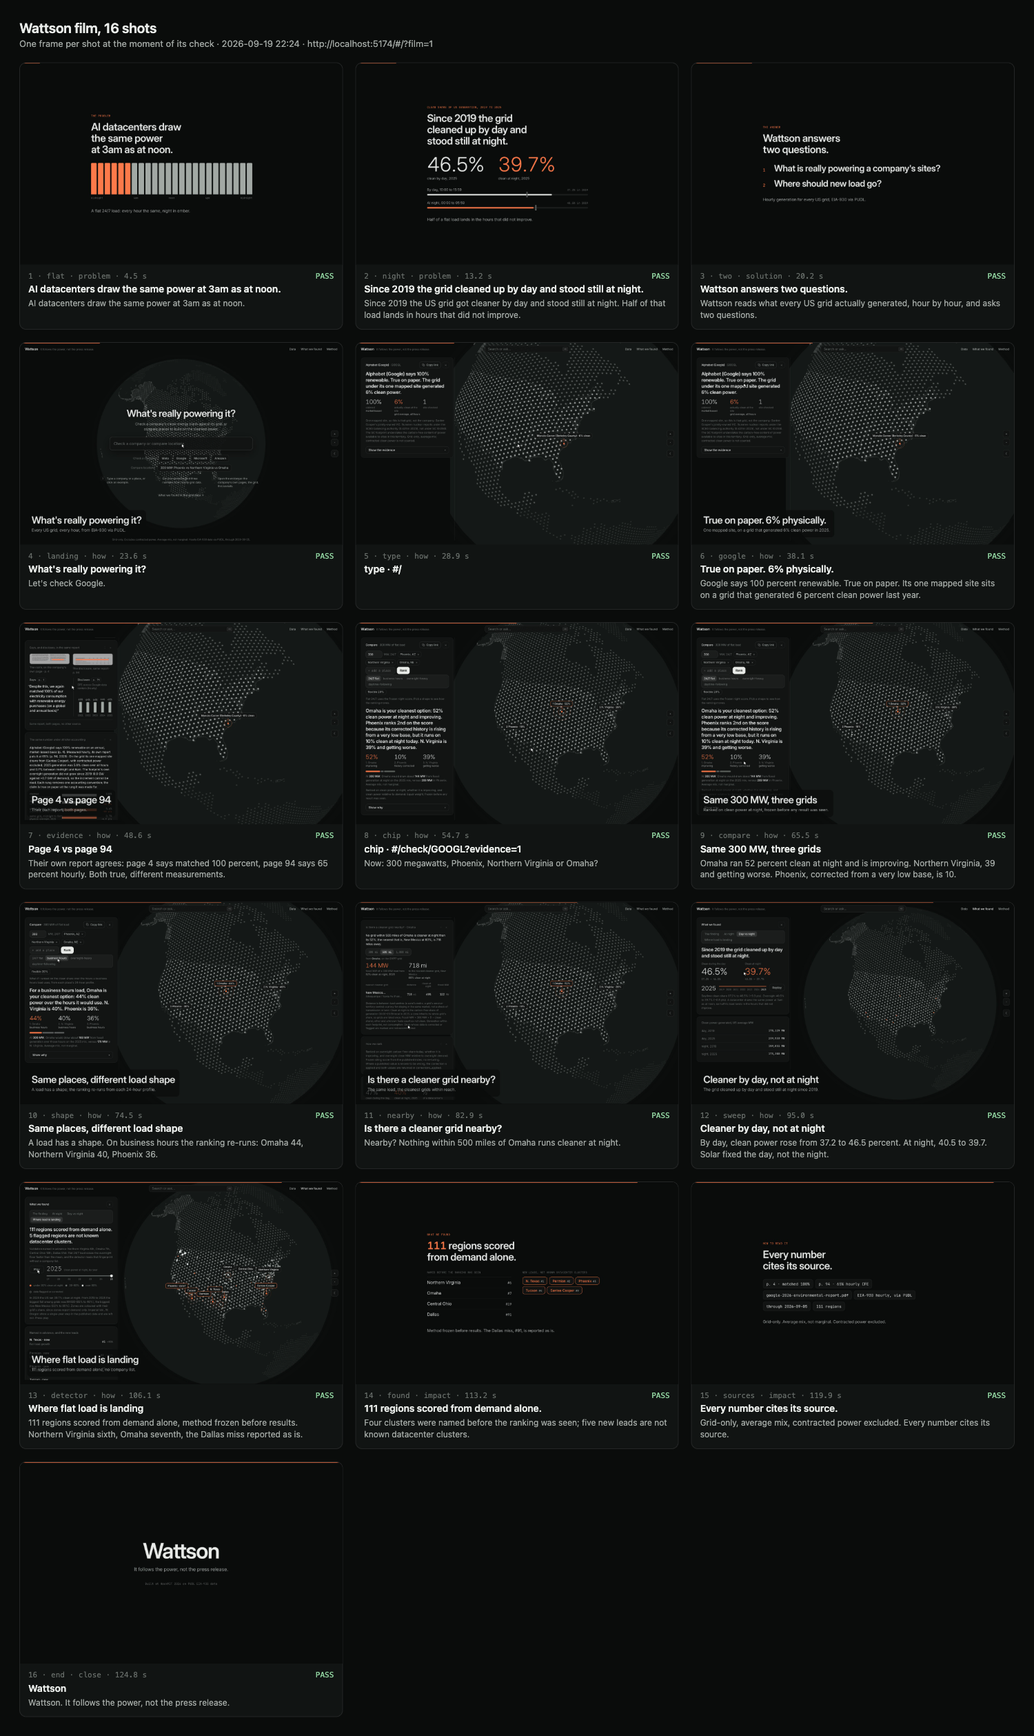
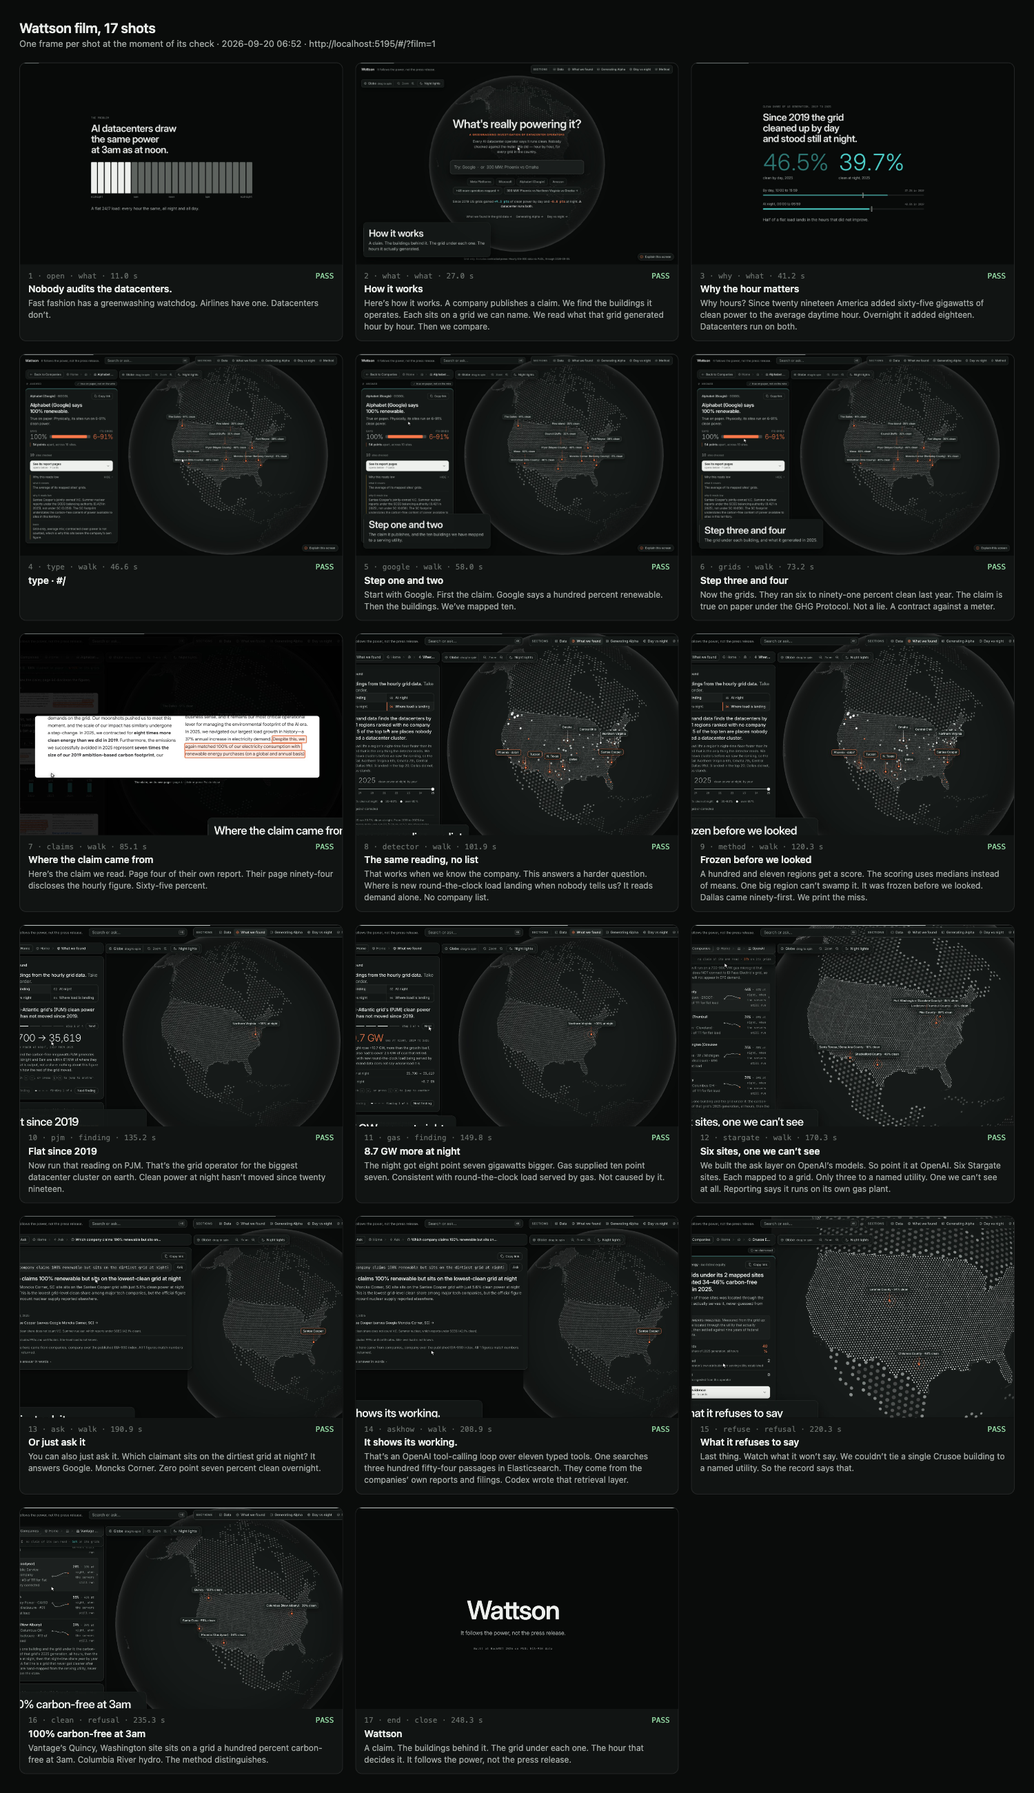
film: step the scroll ourselves so a backgrounded recorder cannot stall it
Smooth scrolling is throttled to a standstill in a hidden window, the same as
requestAnimationFrame, so every scrolling shot silently did nothing when the
recorder was not in front and its check then failed for a reason unrelated to
the shot. Measured directly: an instant scroll moved the target from 941 to
80, the identical smooth scroll left it at 0 indefinitely. The scroll now
steps on a timer with an easing curve, which looks the same on camera and
cannot stall. Two shots that had never passed in a full run now do.

diff --git a/web/src/demo/film.js b/web/src/demo/film.js
@@ -117,7 +117,7 @@ export const FILM = [
 
   { id: 'grids', section: 'walk', route: '#/check/GOOGL', holdMs: 8000, title: 'Step three and four',
     sub: 'The grid under each building, and what it generated in 2025.',
-    say: 'Now the grids. They ran six to ninety-one percent clean last year. The claim is true on paper under the GHG Protocol. Not a lie. A contract against a meter.',
+    say: 'Now the grids. They ran six to ninety-one percent clean last year. That averages forty-six. So the claim is true on paper under the GHG Protocol. Not a lie. A contract against a meter.',
     waitFor: '.ans-gap', actions: [{ type: 'wait', ms: 300 }, { type: 'move', selector: '.ans-gap' }],
     expect: { selector: '.ans-gap', text: ['100%', '6–91%', '54 points apart, across 10 sites.'] } },
 
@@ -186,6 +186,17 @@ export const FILM = [
       { type: 'scroll', selector: '[data-module="sites"] .site-note .note' },
     ],
     expect: { selector: '[data-module="sites"] .site-note .note', text: ['700-900 MW gas microgrid', 'does NOT connect'] } },
+
+  // The specific case generalises into the limitation. "Ten" is the count of site notes that say
+  // "behind the meter" across company/*.json, verified by hand: ten say it, fifteen describe on-site
+  // generation of any kind. Not eleven — that figure is not reproducible from anything in the repo.
+  { id: 'blind', section: 'walk', route: '#/check/OPENAI?evidence=1', holdMs: 6000,
+    title: 'Our own blind spot', sub: 'Ten mapped sites make their own power, so federal demand data never sees them.',
+    say: 'Ten of our mapped sites are behind the meter. A demand-only detector can’t see them.',
+    waitFor: '[data-module="sites"] .site-note .note', actions: [
+      { type: 'move', selector: '[data-module="sites"] .site-note .note' },
+    ],
+    expect: { selector: '[data-module="sites"] .site-note .note', text: 'will not appear in EPE demand' } },
 
   { id: 'ask', section: 'walk', route: ASK_ROUTE, holdMs: 9000, title: 'Or just ask it',
     sub: 'Typed in plain English, answered off the published index.',

diff --git a/web/src/pages/Film.jsx b/web/src/pages/Film.jsx
@@ -144,7 +144,18 @@ async function act(a) {
   if (a.type === 'move') { await moveTo(el); return }
   if (a.type === 'scroll') {
     const sp = scrollParent(el)
-    if (sp) { const top = el.getBoundingClientRect().top - sp.getBoundingClientRect().top + sp.scrollTop - 12; sp.scrollTo({ top: Math.max(0, top), behavior: 'smooth' }) } else el.scrollIntoView({ behavior: 'smooth', block: 'start' })
+    // Smooth scrolling is throttled to a standstill in a hidden or backgrounded window, exactly like
+    // requestAnimationFrame, so every scrolling shot silently no-ops when the recorder is not in
+    // front and the expect check then fails for a reason that has nothing to do with the shot.
+    // Step the scroll ourselves on a timer instead: it looks the same on camera and cannot stall.
+    const ease = t => (t < 0.5 ? 2 * t * t : 1 - Math.pow(-2 * t + 2, 2) / 2)
+    const glide = (set, from, to, ms = 420) => new Promise(done => {
+      const t0 = Date.now()
+      const step = () => { const k = Math.min(1, (Date.now() - t0) / ms); set(from + (to - from) * ease(k)); if (k < 1) setTimeout(step, 16); else done() }
+      step()
+    })
+    if (sp) { const top = el.getBoundingClientRect().top - sp.getBoundingClientRect().top + sp.scrollTop - 12; await glide(v => { sp.scrollTop = v }, sp.scrollTop, Math.max(0, top)) }
+    else { const top = Math.max(0, el.getBoundingClientRect().top + window.scrollY - 12); await glide(v => window.scrollTo(0, v), window.scrollY, top) }
     await sleep(750)
     at = null   // the page moved under the cursor; the next move is a fade-in, not a drift
     await moveTo(el, 500)

diff --git a/docs/narration-annex.md b/docs/narration-annex.md
@@ -40,10 +40,10 @@ that pause — where a clause needed one, it became two sentences.
 
 ## Timing
 
-- **Narration: 418 words over 17 shots = 191.9 s**, at `words / 2.3 + 0.6 s` per shot.
+- **Narration: 437 words over 18 shots = 200.8 s**, at `words / 2.3 + 0.6 s` per shot.
 - Interaction adds about **36 s** — ~12 s on the live model call in `ask`, ~4 s of typing in `type`,
   2.6 s of title card, and 0.6–1.5 s per shot of veil, caption-out and gap, all outside the hold.
-- **Realistic running time: about 3:47.**
+- **Realistic running time: about 3:56.**
 - This is over the 150 s narration target by design. The coordinator took the length in exchange for
   keeping the clean result (`clean`) and the Stargate utility split, on the grounds that a shorter
   film that implies a company lied by omission is worse in every way. Do not cut the explanation
@@ -69,9 +69,10 @@ that pause — where a clause needed one, it became two sentences.
     `column.scrollTop = 861` moves the evidence module from top 941 to top 80, while the identical
     smooth `scrollTo` leaves it at 0/941 indefinitely. Every shot that scrolls (`claims`,
     `stargate`, `clean`) therefore fails in a hidden tab and passes in a visible one.
-  - **Worth handing to whoever owns `web/src/pages/Film.jsx`:** dropping `behavior: 'smooth'` from
-    the `scroll` action (or using `'auto'`) would make the film robust to an offscreen recorder.
-    That file is not ours, so the change was not made here.
+  - **Fixed upstream.** Film.jsx's `scroll` action no longer uses smooth behaviour; it steps the
+    scroll on a timer with its own easing, so it looks the same on camera and cannot stall in a
+    backgrounded window. The defensive waits and second scroll pass in the shot list are kept as
+    belt and braces; they cost nothing, since action time is absorbed by the narration.
 - **Build the app, then regenerate the narration, in that order.** Building first and narrating
   second leaves the recorded app pacing to the previous voice's clip lengths.
 
@@ -138,11 +139,16 @@ reaches in shot 6. At this moment the number is on screen but not under the curs
 
 ### 6 · `grids` — `#/check/GOOGL` — 30 words · 13.6 s
 **Screen.** The gap block: says 100% / its grids 6–91% / 54 points apart, across 10 sites.
-> Now the grids. They ran six to ninety-one percent clean last year. The claim is true on paper
-> under the GHG Protocol. Not a lie. A contract against a meter.
+> Now the grids. They ran six to ninety-one percent clean last year. That averages forty-six. So
+> the claim is true on paper under the GHG Protocol. Not a lie. A contract against a meter.
 
-*Figures:* `company/GOOGL.json` → `claims[0].physical_min` 0.056, `.physical_max` 0.913; 54 points
-is 100 − `claims[0].physical_mean_unweighted` (0.464). The GHG Protocol framing is `notes[3]`.
+*Figures:* `company/GOOGL.json` → `claims[0].physical_min` 0.056, `.physical_max` 0.913, and
+`claims[0].physical_mean_unweighted` 0.464. The on-screen "54 points apart" is 100 − 46.4. The GHG
+Protocol framing is `notes[3]`.
+**The pair is 100 against 46, not 100 against 5.6.** Google has ten mapped sites; 5.6% is the low
+end of a range, not the company's figure, and the old one-site framing is dead. The narration gives
+the range and then the mean explicitly, so "six" cannot be misheard as Google's number. The deck
+carries the same pair.
 *Check:* `.ans-gap` contains "100%", "6–91%", "54 points apart, across 10 sites.".
 
 ### 7 · `claims` — `#/check/GOOGL` — 20 words · 9.3 s
@@ -221,7 +227,24 @@ read "utility unknown".
 *Check:* `[data-module="sites"] .site-note .note` contains "700-900 MW gas microgrid" and
 "does NOT connect".
 
-### 13 · `ask` — `#/ask?q=…` — 26 words · 11.9 s
+### 13 · `blind` — `#/check/OPENAI?evidence=1` — 15 words · 7.1 s
+**Screen.** The same open caveat, held: "…so this load will not appear in EPE demand."
+> Ten of our mapped sites are behind the meter. A demand-only detector can't see them.
+
+*Figures:* **ten**, counted by hand across `company/*.json` → `sites[].note`, matching on the phrase
+"behind the meter": Crusoe (Laramie County, Childress County), Hut 8 (Vega), Keel (Nesquehoning,
+Venango County), Oracle (Shackelford County, Santa Teresa), Poolside (Pecos County), Soluna (Briscoe
+County), Vulcan (Torrey / Dresden). A looser match on on-site generation of any kind — microgrids,
+co-located plants, mobile turbines — gives fifteen.
+**Do not say eleven.** That figure is not reproducible from anything in the repo. Say ten, or "about
+a dozen". The method limit is also written into `facilities.json` → `notes[5]`
+("SOME SITES BURN GAS WE CANNOT SEE").
+*Why it is here:* the Santa Teresa caveat is one site; this generalises it into the limitation, on
+screen, in the product's own words. It is the film stating its own blind spot out loud.
+*Check:* `[data-module="sites"] .site-note .note` contains "will not appear in EPE demand" — a
+different string from shot 12's, so the two checks are independent rather than duplicated.
+
+### 14 · `ask` — `#/ask?q=…` — 26 words · 11.9 s
 **Screen.** The live answer, headlined close to "Google sits on the lowest overnight clean share
 among 100% renewable claimants", with **0.7% clean at night, 2025** and **14 clean MW**.
 > You can also just ask it. Which claimant sits on the dirtiest grid at night? It answers Google.
@@ -236,7 +259,7 @@ says. It is false globally — El Paso Electric is at 0.1% overnight, Arizona at
 Moncks Corner, `kind: "single"`, and the V.C. Summer caveat. The expect looks only for "Google".
 *Check:* `.ask-headline` contains "Google". **Verified live.**
 
-### 14 · `askhow` — `#/ask?q=…` — 31 words · 14.1 s
+### 15 · `askhow` — `#/ask?q=…` — 31 words · 14.1 s
 **Screen.** The caveat list and the provenance line: "Every figure here came from companies,
 company, region over the published EIA-930 index. All 2 figures match numbers those tools returned."
 > That's an OpenAI tool-calling loop over eleven typed tools. One searches three hundred fifty-four
@@ -268,7 +291,7 @@ question answers from the numeric tools; its provenance line reads "companies, c
 does not include `search_corpus`.
 *Check:* `.ask-prov` contains "over the published EIA-930 index". **Verified live.**
 
-### 15 · `refuse` — `#/check/CRUSOE` — 23 words · 10.6 s
+### 16 · `refuse` — `#/check/CRUSOE` — 23 words · 10.6 s
 **Screen.** "sites mapped 2 — grid is the operator's own attribution; no serving utility
 established", with the "no documents ingested" reason in full.
 > Last thing. Watch what it won't say. We couldn't tie a single Crusoe building to a named utility.
@@ -291,7 +314,7 @@ is 48 of 52.
 *Figures:* none. The four beats deliberately echo shot 2.
 *Check:* `.film-slide.show` contains "HackMIT 2026".
 
-### 16 · `clean` — `#/check/VANTAGE?evidence=1` — 20 words · 9.3 s
+### 17 · `clean` — `#/check/VANTAGE?evidence=1` — 20 words · 9.3 s
 **Screen.** First row: Quincy · Grant County PUD · Grant Co. WA · **100% · 100% at night**.
 > Vantage's Quincy, Washington site sits on a grid a hundred percent carbon-free at 3am. Columbia
 > River hydro. The method distinguishes.
@@ -307,7 +330,7 @@ the module mounts, once the per-region series loads. The shot waits 2.2 s before
 scrolls a second time afterwards.
 *Check:* `[data-module="sites"] .rows` contains "Quincy", "Grant County PUD", "100% at night".
 
-### 17 · `end` — slide `end` — 24 words · 11.0 s
+### 18 · `end` — slide `end` — 24 words · 11.0 s
 (unchanged; the four beats echo shot 2)
 
 ## Shots cut in the restructure, and what went with them
@@ -316,7 +339,7 @@ scrolls a second time afterwards.
 |---|---|---|
 | `openai` + `sites` | OpenAI 37% across six sites, and the three-of-six utility split | Folded into `stargate`, split included. The 37% figure is no longer spoken; it is still on the answer header. |
 | `epe` | El Paso Electric 34.1% by day, 1 clean MW of 655 at night | No honesty issue — no EPE share is stated any more. The figure is still on screen in the site row. |
-| `jupiter` | The blind-spot admission as its own beat, plus "ten mapped sites are behind the meter" | The microgrid admission survives inside `stargate`; the behind-the-meter count is gone. **This is the one remaining thing I would add back** if 8 words free up, since it is the film's own limitation stated out loud. |
+| `jupiter` | The blind-spot admission as its own beat, plus "ten mapped sites are behind the meter" | Nothing. The microgrid admission lives in `stargate` and the behind-the-meter count is restored as `blind` (shot 13). |
 | `clean` | — | **Restored.** Cutting it left nothing on screen that comes out well, which made the film read as an accusation rather than an instrument. |
 
 ---
@@ -334,7 +357,7 @@ nest under a top-level `region` key, company files are flat. Live endpoints are 
 | 46.5% / 39.7% on the slide | 3 `why` | `regions.json` | `meta.national.cf_share.2025.{daytime,overnight}`; also `film.js` `NATIONAL` |
 | Google claims 100%, annual, market-based | 5 `google` | `company/GOOGL.json` | `claims[0].magnitude`, `.timeframe`, `.scope`, `.verdict` |
 | ten mapped buildings | 5 `google` | `company/GOOGL.json` | `sites` array length |
-| 6–91% physically | 6 `grids` | `company/GOOGL.json` | `claims[0].physical_min` 0.056, `.physical_max` 0.913 |
+| 6–91% physically, averaging 46 | 6 `grids` | `company/GOOGL.json` | `claims[0].physical_min` 0.056, `.physical_max` 0.913, `.physical_mean_unweighted` 0.464 |
 | 54 points apart (on screen) | 6 `grids` | `company/GOOGL.json` | 100 − `claims[0].physical_mean_unweighted` (0.464) |
 | p. 4 claim sentence | 7 `claims` | `company/GOOGL.json` | `claims[0].verbatim`, `.page`, `.source_doc`, `.source_url` |
 | p. 94, 65% hourly CFE | 7 `claims` | `company/GOOGL.json` | `claims[0].evidence[type="internal_contradiction"]`: `page` 94, `values` [65,64,64,66,65] |
@@ -346,13 +369,14 @@ nest under a top-level `region` key, company files are flat. Live endpoints are 
 | PJM overnight gas +10.7 GW | 11 `gas` | `region/PJM.json` | `region.fuel_delta_overnight_gw.gas` = 10.74 |
 | six Stargate sites, each mapped to a grid | 12 `stargate` | `company/OPENAI.json` | `sites` length 6; `sites[].region_id` all non-null; `coverage` = 1.0 |
 | Project Jupiter gas plant, no interconnection | 12 `stargate` | `company/OPENAI.json` | `sites[1].note`, `.source_type` = press, `.source_url` — **reported, not measured** |
-| Google / Santee Cooper 0.7% clean overnight | 13 `ask` | `region/SC.json` | `region.cf_share.2025.overnight` = 0.007; `region.cf_avg_mw` 14 MW of `region.total_avg_mw` 1,906 MW |
-| Eleven typed tools, model gpt-4.1 | 14 `askhow` | live `/api/ask/status` | `tools[]` (11 names), `model`. The repo's `server/ai.py` `TOOLS` is stale at ten |
-| 354 **passages** from their own reports and filings | 14 `askhow` | live `/api/search/status` | `indexed` = 354, `corpus.esg` = 309, `corpus.10k` = 45, `index` = `wattson-corpus-v1` |
-| 8 source documents, 4 companies | 14 `askhow` | `claims/raw/*.jsonl` | one JSONL per document, one passage per line: GOOGL 118+9, META 74+19, MSFT 66+11, AMZN 51+6. `server/search.py` `_doc_type()` maps `*_esg.jsonl` → esg, `*_10k.jsonl` → 10k |
-| Codex wrote the Elasticsearch retrieval layer | 14 `askhow` | — | confirmed by the team; no repo artifact records it |
-| Crusoe: no building tied to a named utility | 15 `refuse` | `company/CRUSOE.json` | `sites` length 2, both `sites[].serving_utility` = null; `coverage_status` = `sites_only` |
-| Quincy 100% carbon-free at 3am | 16 `clean` | `region/GCPD.json` | `region.cf_share.2025.overnight` = 1.0 (991 of 991 MW); site row `company/VANTAGE.json` `sites[0]` |
+| ten mapped sites behind the meter | 13 `blind` | `company/*.json` | `sites[].note` matching "behind the meter": 10 sites. A looser match on on-site generation of any kind gives 15. **Not eleven.** Limit also stated in `facilities.json` `notes[5]` |
+| Google / Santee Cooper 0.7% clean overnight | 14 `ask` | `region/SC.json` | `region.cf_share.2025.overnight` = 0.007; `region.cf_avg_mw` 14 MW of `region.total_avg_mw` 1,906 MW |
+| Eleven typed tools, model gpt-4.1 | 15 `askhow` | live `/api/ask/status` | `tools[]` (11 names), `model`. The repo's `server/ai.py` `TOOLS` is stale at ten |
+| 354 **passages** from their own reports and filings | 15 `askhow` | live `/api/search/status` | `indexed` = 354, `corpus.esg` = 309, `corpus.10k` = 45, `index` = `wattson-corpus-v1` |
+| 8 source documents, 4 companies | 15 `askhow` | `claims/raw/*.jsonl` | one JSONL per document, one passage per line: GOOGL 118+9, META 74+19, MSFT 66+11, AMZN 51+6. `server/search.py` `_doc_type()` maps `*_esg.jsonl` → esg, `*_10k.jsonl` → 10k |
+| Codex wrote the Elasticsearch retrieval layer | 15 `askhow` | — | confirmed by the team; no repo artifact records it |
+| Crusoe: no building tied to a named utility | 16 `refuse` | `company/CRUSOE.json` | `sites` length 2, both `sites[].serving_utility` = null; `coverage_status` = `sites_only` |
+| Quincy 100% carbon-free at 3am | 17 `clean` | `region/GCPD.json` | `region.cf_share.2025.overnight` = 1.0 (991 of 991 MW); site row `company/VANTAGE.json` `sites[0]` |
 | only three of six sites to a named utility | 12 `stargate` | `company/OPENAI.json` | `sites[].serving_utility`: Ohio Edison, We Energies, AEP Ohio named; three null |
 
 ### On screen but no longer spoken
@@ -365,7 +389,6 @@ the previous cut and were dropped in the restructure.
 | 48 of 52 operators have no documents read | the Crusoe card's coverage block | `companies.json` | `count` 52, `count_sites_only` 48, `count_with_claims` 4 |
 | OpenAI 37% across its grids | the OpenAI answer header | `company/OPENAI.json` | `walk_score` = 0.369 |
 | El Paso Electric 34.1% by day, 1 MW of 655 at night | the Santa Teresa site row ("16% · 0% at night") | `region/EPE.json` | `region.cf_share.2025.daytime`; `region.cf_avg_mw` / `region.total_avg_mw`, 2025 overnight |
-| ~10 mapped sites behind the meter | nowhere on screen | `company/*.json` | `sites[].note`; count per `docs/pitch/numbers-v2.md`; limit stated in `facilities.json` `notes[5]` |
 
 ## Figures deliberately not spoken
 
@@ -374,7 +397,8 @@ the previous cut and were dropped in the restructure.
 - **+61.4 / +14.3 GW and "four times"** — measured from the contaminated 2019 baseline. Superseded
   by +64.7 / +17.7 GW and 3.66x.
 - **"Six percent physically"** for Google, and **94 points apart** — superseded by the merge.
-- **Eleven behind-the-meter sites** — not reproducible from the repo; "ten" is used.
+- **Eleven behind-the-meter sites** — not reproducible from the repo. Ten is what the notes say, and ten is what shot 13 speaks.
+- **"100% against 5.6%"** for Google — the one-site framing is dead. It is 100 against 46, a 54-point gap across ten sites.
 - **Twelve operators with no documents read** — it is 48.
 - **Nebius has no named utility** — false; both its sites name one.
 - **Abilene as a Stargate site** — not in OpenAI's six.

diff --git a/docs/narration.md b/docs/narration.md
@@ -31,7 +31,7 @@ one finding, one refusal and one clean result.
 
 **6. grids** · walk · '#/check/GOOGL'
 
-> Now the grids. They ran six to ninety-one percent clean last year. The claim is true on paper under the GHG Protocol. Not a lie. A contract against a meter.
+> Now the grids. They ran six to ninety-one percent clean last year. That averages forty-six. So the claim is true on paper under the GHG Protocol. Not a lie. A contract against a meter.
 
 **7. claims** · walk · '#/check/GOOGL'
 
@@ -57,23 +57,27 @@ one finding, one refusal and one clean result.
 
 > We built the ask layer on OpenAI’s models. So point it at OpenAI. Six Stargate sites. Each mapped to a grid. Only three to a named utility. One we can’t see at all. Reporting says it runs on its own gas plant.
 
-**13. ask** · walk · ASK_ROUTE
+**13. blind** · walk · '#/check/OPENAI?evidence=1'
+
+> Ten of our mapped sites are behind the meter. A demand-only detector can’t see them.
+
+**14. ask** · walk · ASK_ROUTE
 
 > You can also just ask it. Which claimant sits on the dirtiest grid at night? It answers Google. Moncks Corner. Zero point seven percent clean overnight.
 
-**14. askhow** · walk · ASK_ROUTE
+**15. askhow** · walk · ASK_ROUTE
 
 > That’s an OpenAI tool-calling loop over eleven typed tools. One searches three hundred fifty-four passages in Elasticsearch. They come from the companies’ own reports and filings. Codex wrote that retrieval layer.
 
-**15. refuse** · refusal · '#/check/CRUSOE'
+**16. refuse** · refusal · '#/check/CRUSOE'
 
 > Last thing. Watch what it won’t say. We couldn’t tie a single Crusoe building to a named utility. So the record says that.
 
-**16. clean** · refusal · '#/check/VANTAGE?evidence=1'
+**17. clean** · refusal · '#/check/VANTAGE?evidence=1'
 
 > Vantage’s Quincy, Washington site sits on a grid a hundred percent carbon-free at 3am. Columbia River hydro. The method distinguishes.
 
-**17. end** · close · end
+**18. end** · close · end
 
 > A claim. The buildings behind it. The grid under each one. The hour that decides it. It follows the power, not the press release.
 
@@ -86,19 +90,20 @@ one finding, one refusal and one clean result.
 | 3 | why | what | 25 | 11.5 s |
 | 4 | type | walk | 0 | 0.6 s |
 | 5 | google | walk | 18 | 8.4 s |
-| 6 | grids | walk | 30 | 13.6 s |
+| 6 | grids | walk | 34 | 15.4 s |
 | 7 | claims | walk | 20 | 9.3 s |
 | 8 | detector | walk | 29 | 13.2 s |
 | 9 | method | walk | 34 | 15.4 s |
 | 10 | pjm | finding | 26 | 11.9 s |
 | 11 | gas | finding | 24 | 11.0 s |
 | 12 | stargate | walk | 42 | 18.9 s |
-| 13 | ask | walk | 26 | 11.9 s |
-| 14 | askhow | walk | 31 | 14.1 s |
-| 15 | refuse | refusal | 23 | 10.6 s |
-| 16 | clean | refusal | 20 | 9.3 s |
-| 17 | end | close | 24 | 11.0 s |
-| | **total** | | **418** | **191.9 s** |
+| 13 | blind | walk | 15 | 7.1 s |
+| 14 | ask | walk | 26 | 11.9 s |
+| 15 | askhow | walk | 31 | 14.1 s |
+| 16 | refuse | refusal | 23 | 10.6 s |
+| 17 | clean | refusal | 20 | 9.3 s |
+| 18 | end | close | 24 | 11.0 s |
+| | **total** | | **437** | **200.8 s** |
 
-418 words over 17 shots at `words / 2.3 + 0.6 s` = 191.9 s of speech. Interaction adds
-about 36 s, so the film runs near 3:47.
+437 words over 18 shots at `words / 2.3 + 0.6 s` = 200.8 s of speech. Interaction adds
+about 36 s, so the film runs near 3:56.
